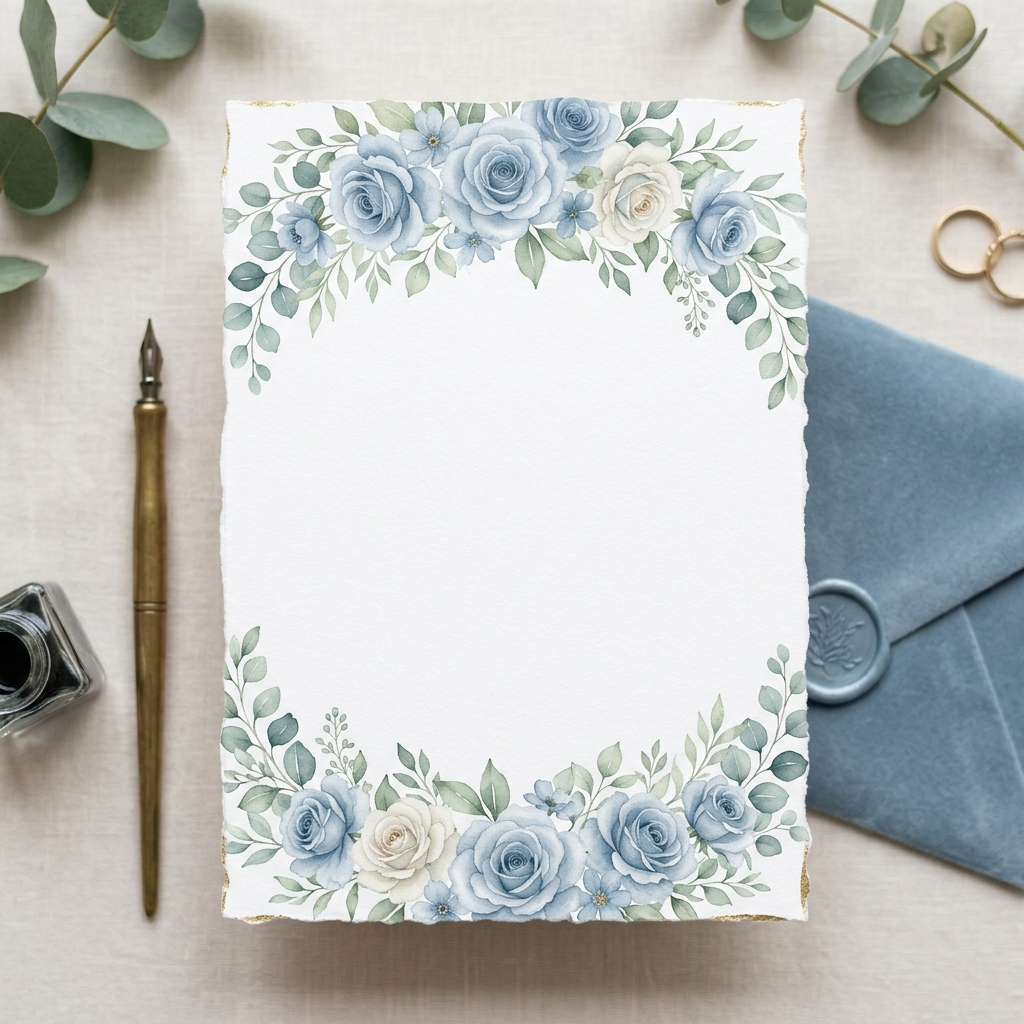
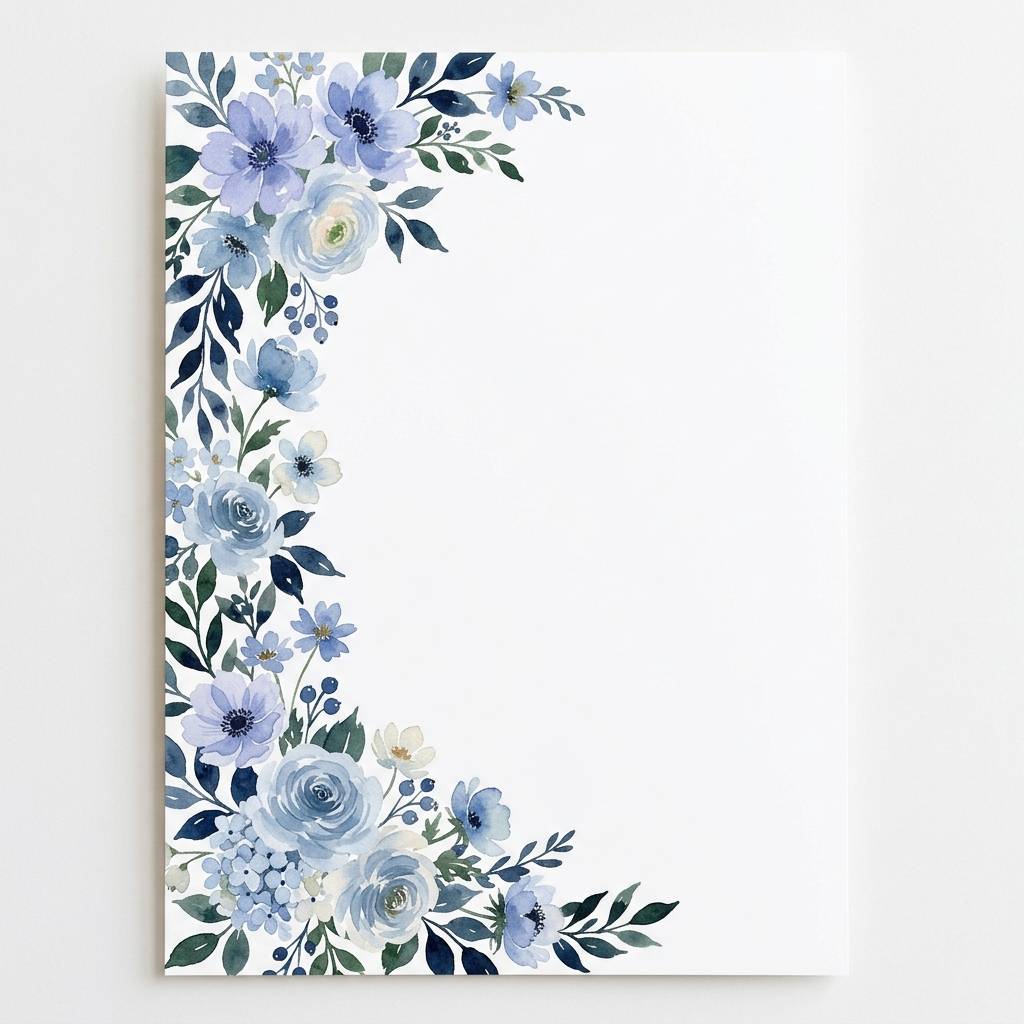
Update Minimal layout to match exact dusty blue watercolor floral reference design

diff --git a/frontend/src/components/themes/wedding/layouts/general/MinimalLayout.tsx b/frontend/src/components/themes/wedding/layouts/general/MinimalLayout.tsx
@@ -202,57 +202,64 @@ export default function MinimalLayout({ content, website }: WeddingLayoutProps) 
     hero: (
       <section
         key="hero"
-        className="relative w-full flex flex-col justify-center items-center text-center bg-[#FAFCFF] text-[#2C4666] p-0 overflow-hidden py-14 sm:py-20 min-h-screen bg-cover bg-center bg-no-repeat font-serif"
+        className="relative w-full flex flex-col justify-center items-end text-right bg-[#FFFFFF] text-[#2C4666] p-0 overflow-hidden py-12 sm:py-16 min-h-screen bg-cover bg-left-top bg-no-repeat font-serif"
         style={{ backgroundImage: "url('/media/blue_floral_bg.png')" }}
       >
-        {/* Subtle Ambient Radial Glow for Crystal-Clear Text Readability */}
-        <div className="absolute inset-0 bg-gradient-to-b from-[#FAFCFF]/30 via-[#FAFCFF]/60 to-[#FAFCFF]/30 pointer-events-none z-10" />
+        <style>{`
+          @import url('https://fonts.googleapis.com/css2?family=Alex+Brush&family=Cormorant+Garamond:ital,wght@0,400;0,600;0,700;1,400&display=swap');
+          .font-script-alex {
+            font-family: 'Alex Brush', 'Great Vibes', cursive, serif;
+          }
+          .font-garamond {
+            font-family: 'Cormorant Garamond', 'Playfair Display', serif;
+          }
+        `}</style>
 
-        {/* Hero Content Container - Perfect Center Alignment */}
-        <div className="relative z-30 py-8 max-w-xs sm:max-w-md mx-auto flex flex-col items-center text-center px-4">
+        {/* Hero Content Container - Styled EXACTLY to Image 2 (Aligned Right on Clear White Paper) */}
+        <div className="relative z-30 pt-16 sm:pt-20 max-w-[270px] sm:max-w-xs md:max-w-sm ml-auto mr-4 sm:mr-8 md:mr-12 flex flex-col items-end text-right px-3 pb-8 font-garamond">
           
           {/* Header Text matching Image 2 */}
-          <p className="text-[#3B5B82] text-[10px] sm:text-xs font-bold tracking-[0.35em] uppercase font-serif mb-0.5">
+          <p className="text-[#3B5B82] text-[11px] sm:text-xs font-semibold tracking-[0.3em] uppercase mb-0.5">
             TOGETHER WITH
           </p>
-          <p className="text-[#4B6B94] text-xs sm:text-sm italic font-serif mb-6 sm:mb-8">
+          <p className="text-[#4B6B94] text-xs sm:text-sm italic font-serif mb-4 sm:mb-6">
             their families
           </p>
 
           {/* Groom Name */}
-          <h1 className="text-3xl sm:text-5xl font-serif italic text-[#2C4666] tracking-wide my-0.5 drop-shadow-sm leading-tight">
+          <h1 className="text-4xl sm:text-6xl font-script-alex text-[#2C4666] tracking-wide my-0.5 drop-shadow-sm leading-tight font-normal">
             {groomFullName}
           </h1>
 
           {/* AND flourish */}
-          <p className="text-xs sm:text-sm text-[#4B6B94] font-serif tracking-[0.3em] uppercase my-3">
+          <p className="text-[11px] sm:text-xs text-[#4B6B94] tracking-[0.3em] uppercase my-2 mr-1 font-semibold">
             AND
           </p>
 
           {/* Bride Name */}
-          <h1 className="text-3xl sm:text-5xl font-serif italic text-[#2C4666] tracking-wide my-0.5 drop-shadow-sm leading-tight">
+          <h1 className="text-4xl sm:text-6xl font-script-alex text-[#2C4666] tracking-wide my-0.5 drop-shadow-sm leading-tight font-normal">
             {brideFullName}
           </h1>
 
           {/* Invitation Quote matching Image 2 */}
-          <p className="text-[#3B5B82] text-[10px] sm:text-xs font-bold tracking-[0.25em] uppercase font-serif mt-8 sm:mt-10 mb-2 leading-relaxed max-w-[280px] sm:max-w-sm">
+          <p className="text-[#3B5B82] text-[10px] sm:text-xs font-semibold tracking-[0.25em] uppercase mt-6 sm:mt-8 mb-2 leading-relaxed">
             {quoteText}
           </p>
 
           {/* Date Details matching Image 2 */}
-          <p className="text-[#3B5B82] text-[11px] sm:text-xs font-bold tracking-[0.22em] uppercase font-serif my-1">
+          <p className="text-[#3B5B82] text-[11px] sm:text-xs font-semibold tracking-[0.22em] uppercase my-1">
             ON {monthStr} {dayNum}TH {yearStr}
           </p>
-          <p className="text-[#4B6B94] text-xs italic font-serif mb-8 sm:mb-10">
+          <p className="text-[#4B6B94] text-xs italic font-serif mb-6 sm:mb-8">
             at {timeStr.toLowerCase()} in the evening
           </p>
 
           {/* Venue & Location matching Image 2 */}
-          <h2 className="text-2xl sm:text-3xl font-serif italic text-[#2C4666] my-1">
+          <h2 className="text-3xl sm:text-5xl font-script-alex text-[#2C4666] my-1 font-normal">
             {venueTitle}
           </h2>
           {venueSubtitle && (
-            <p className="text-[#3B5B82] text-[10px] sm:text-xs font-bold tracking-[0.2em] uppercase font-serif mt-1">
+            <p className="text-[#3B5B82] text-[10px] sm:text-xs font-semibold tracking-[0.22em] uppercase mt-1">
               {venueSubtitle}
             </p>
           )}
@@ -581,7 +588,7 @@ export default function MinimalLayout({ content, website }: WeddingLayoutProps) 
   };
 
   return (
-    <div className={`min-h-screen bg-[#FAFCFF] relative font-serif flex flex-col items-center overflow-hidden w-full ${!isOpened ? 'max-h-screen overflow-hidden' : ''}`}>
+    <div className={`min-h-screen bg-[#FFFFFF] relative font-serif flex flex-col items-center overflow-hidden w-full ${!isOpened ? 'max-h-screen overflow-hidden' : ''}`}>
 
       {/* Background Audio */}
       {musicUrl && (
@@ -610,13 +617,12 @@ export default function MinimalLayout({ content, website }: WeddingLayoutProps) 
       {/* Welcome Screen Reveal Envelope */}
       <div
         onClick={handleOpen}
-        className={`fixed inset-0 z-[100] flex items-center justify-center bg-[#FAFCFF] transition-all duration-1000 ease-in-out ${isOpened ? 'opacity-0 pointer-events-none' : 'opacity-100'} overflow-hidden cursor-pointer selection:bg-transparent`}
+        className={`fixed inset-0 z-[100] flex items-center justify-center bg-[#FFFFFF] transition-all duration-1000 ease-in-out ${isOpened ? 'opacity-0 pointer-events-none' : 'opacity-100'} overflow-hidden cursor-pointer selection:bg-transparent`}
       >
         <div
-          className={`absolute inset-0 bg-cover bg-left-top bg-no-repeat transition-all duration-1000 ${isOpening ? 'scale-125 blur-lg opacity-0' : 'scale-100 opacity-90'}`}
+          className={`absolute inset-0 bg-cover bg-left-top bg-no-repeat transition-all duration-1000 ${isOpening ? 'scale-125 blur-lg opacity-0' : 'scale-100 opacity-100'}`}
           style={{ backgroundImage: "url('/media/blue_floral_bg.png')" }}
         >
-          <div className="absolute inset-0 bg-[#FAFCFF]/60 backdrop-blur-[1px]" />
         </div>
 
         {/* Top Header Tag */}
